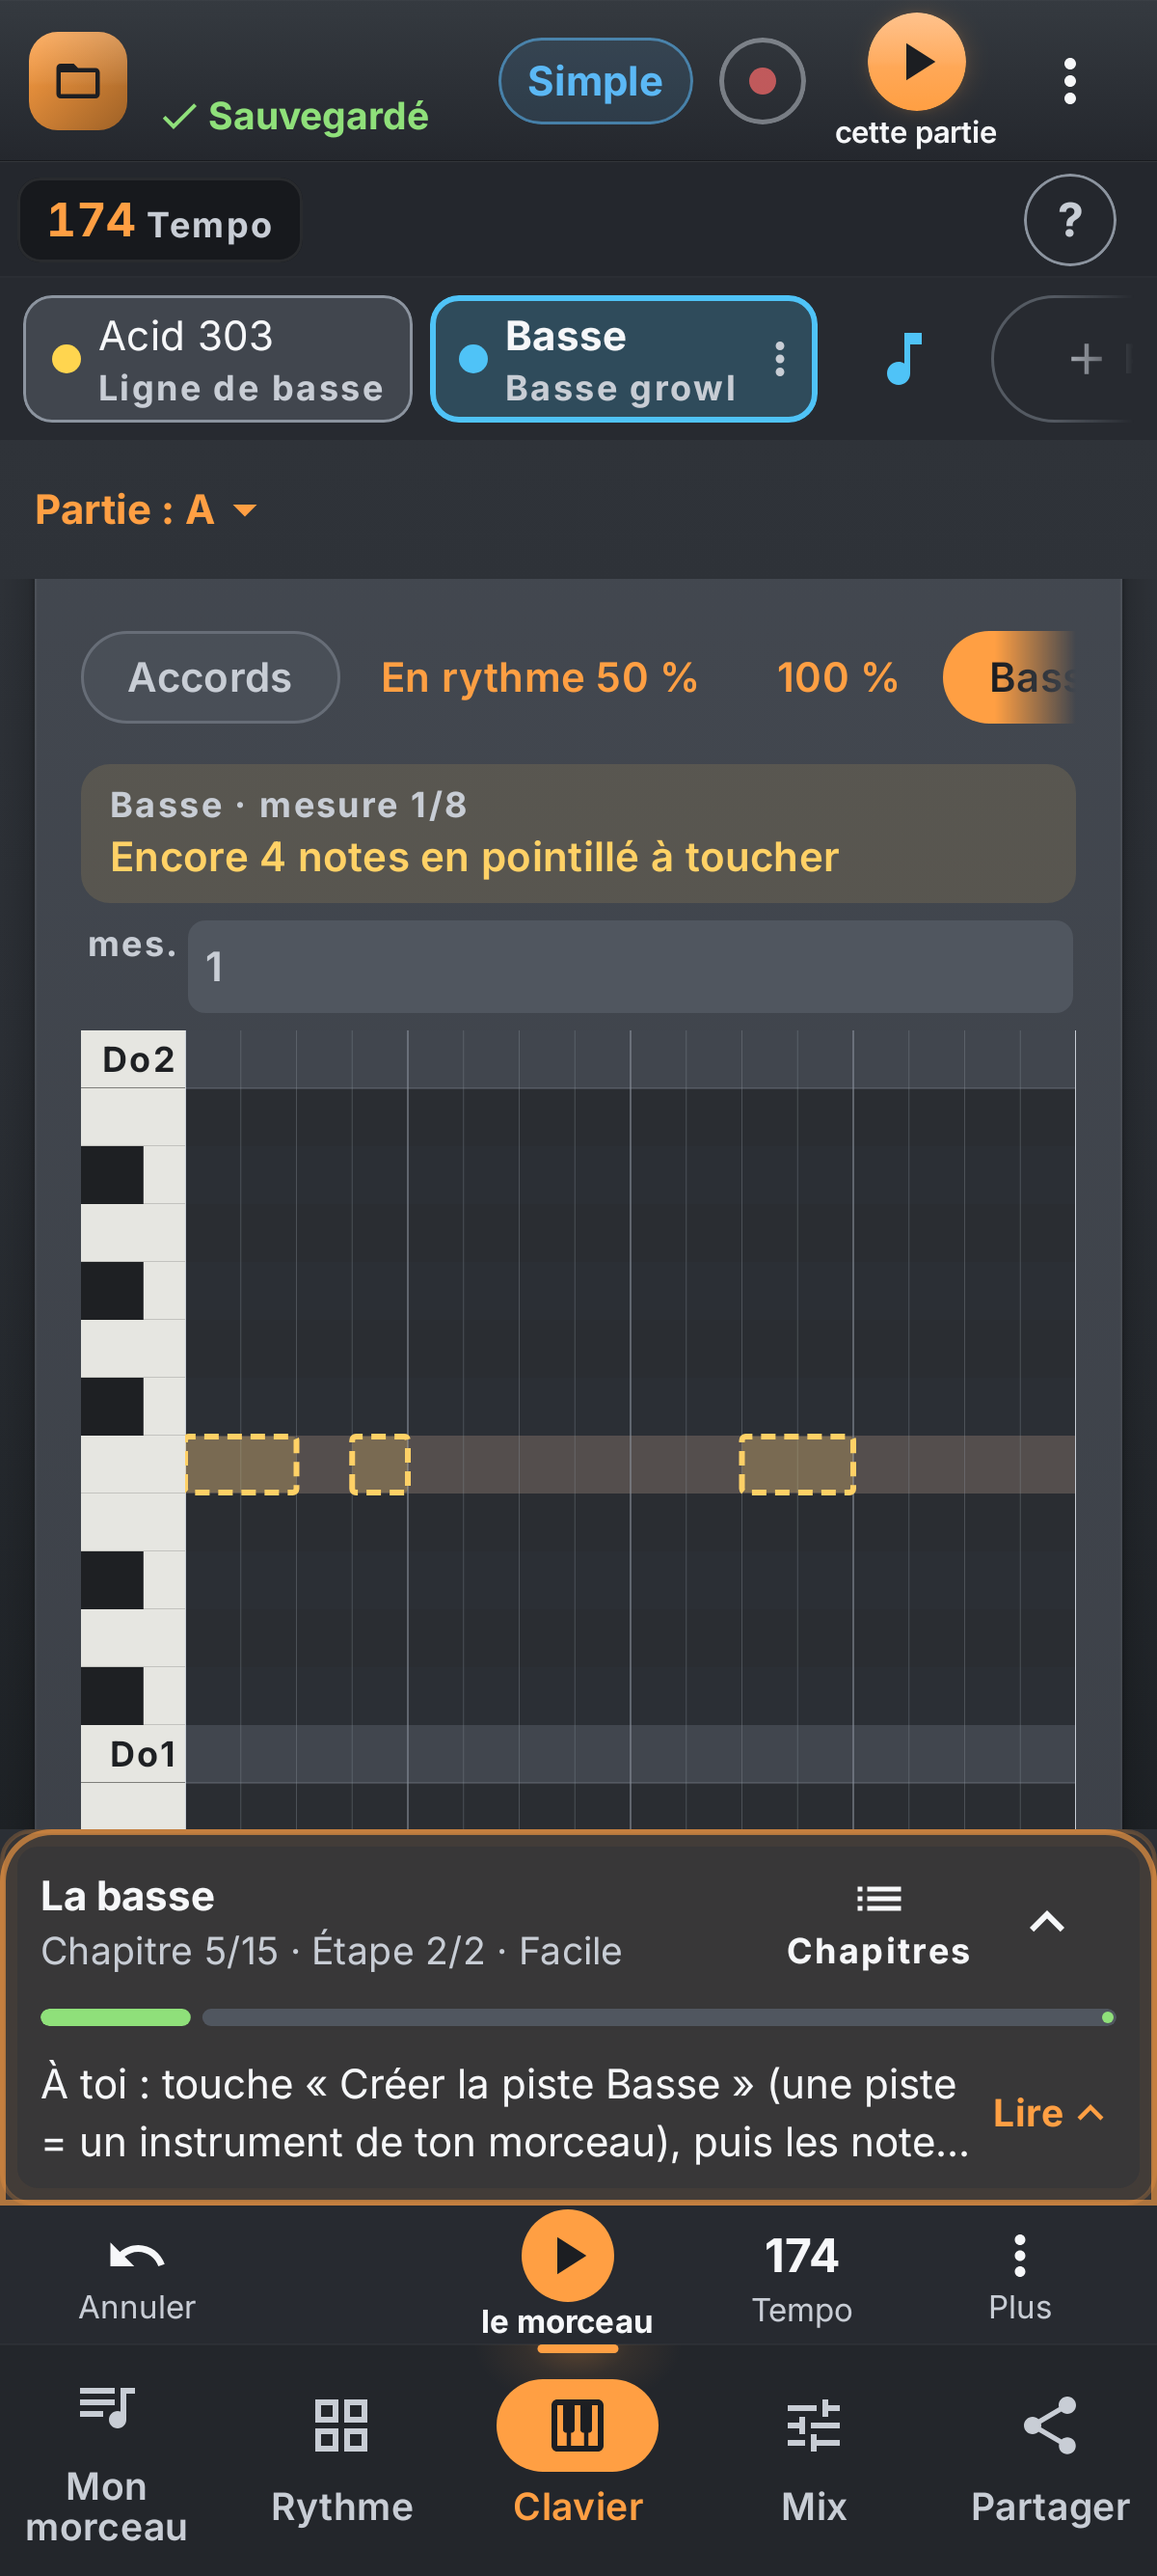
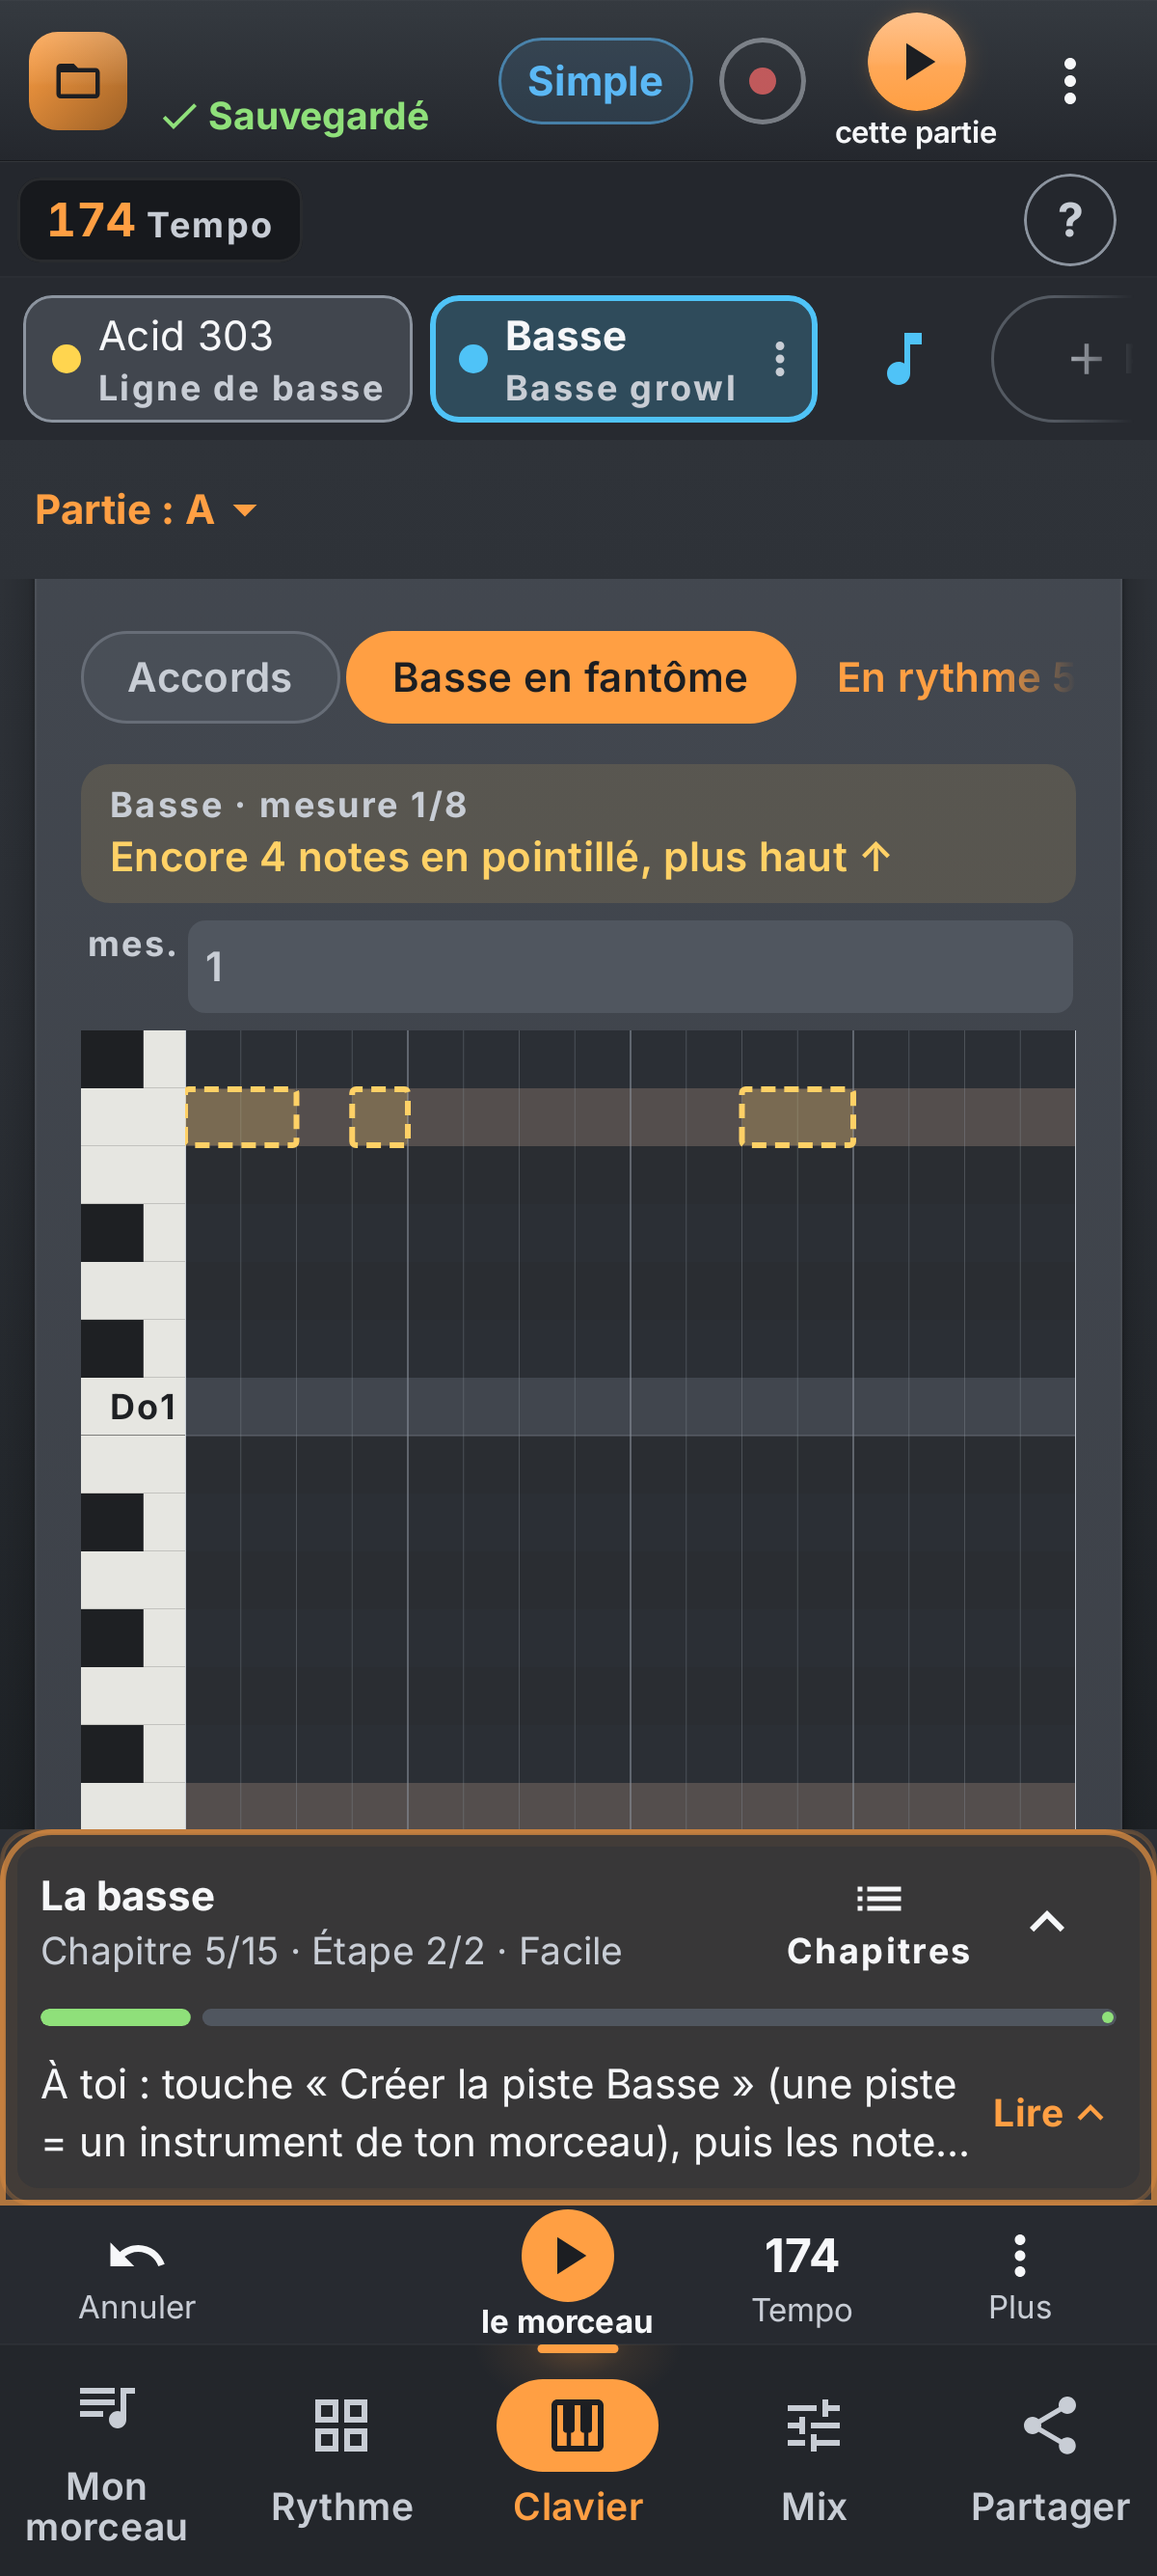
screenshots: the tutorial's bass step after the integration's merge; report notes it
Claude-Session: https://claude.ai/code/session_014RxrDJrHzYD2pRjBeFL948

Changed region(s): [[0.0617, 0.373, 0.9558, 0.715], [0.2775, 0.2176, 0.925, 0.2798], [0.555, 0.3109, 0.74, 0.3419]]

diff --git a/docs/audits/ultra/tour-6-tutoconsignes-rapport.md b/docs/audits/ultra/tour-6-tutoconsignes-rapport.md
@@ -49,7 +49,7 @@ Laissés de côté :
 - N19 : les écoutes passées avant cette version restent dues à la fin du tuto.
 
 ## Captures regardées
-`verifyRoborazziDebug` sur tous les tests de captures après la fusion de l'intégration : 19 écarts. Les 10 du tuto viennent du lot et sont regardées (images de comparaison) puis enregistrées : « Chapitres » sous l'icône de liste (le chapeau décoratif retiré, le titre garde une ligne à 100 %), « ▸ Pourquoi ? » puis « Lire la suite » sous le texte, jamais coupés, aucun vide quand le texte tient, plan du morceau lisible, boutons encadrés de la carte de fin, panneau pas plus haut qu'avant (Facile et Pro, 100 % et 130 % de droite à gauche). Les 9 autres (`nl_nav_*`, `fr_guide_simple`, `fr_simple_mix`, `folded_cards`) ne viennent pas du lot (coche « ✓ » sur le dossier, livrée par l'intégration) : pas réenregistrées ici. Une première version du panneau élargissait l'en-tête et gardait un vide sous « Pourquoi ? » : vue sur ces captures, corrigée (`Tour6TutoPanelFit*`).
+`verifyRoborazziDebug` sur tous les tests de captures après la fusion de l'intégration : 19 écarts. Les 10 du tuto viennent du lot et sont regardées (images de comparaison) puis enregistrées : « Chapitres » sous l'icône de liste (le chapeau décoratif retiré, le titre garde une ligne à 100 %), « ▸ Pourquoi ? » puis « Lire la suite » sous le texte, jamais coupés, aucun vide quand le texte tient, plan du morceau lisible, boutons encadrés de la carte de fin, panneau pas plus haut qu'avant (Facile et Pro, 100 % et 130 % de droite à gauche). Les 9 autres (`nl_nav_*`, `fr_guide_simple`, `fr_simple_mix`, `folded_cards`) ne viennent pas du lot (coche « ✓ » sur le dossier, livrée par l'intégration) : pas réenregistrées ici. Après la dernière fusion de l'intégration, `tuto_app_bass` change encore (grille défilée vers le haut, puce « Basse en fantôme » allumée : venu d'un autre lot) ; enregistrée ; à voir côté lot 1 : la consigne y dit « plus haut ↑ » alors que les notes en pointillé sont visibles. Une première version du panneau élargissait l'en-tête et gardait un vide sous « Pourquoi ? » : vue sur ces captures, corrigée (`Tour6TutoPanelFit*`).
 
 ## Chemins
 chemin: tuto Facile et Pro › étape à écouter passée par Suivant | test: Tour6TutoPanelListenSkipTest#suivantOnEveryExampleLeavesNoneForTheEnd
